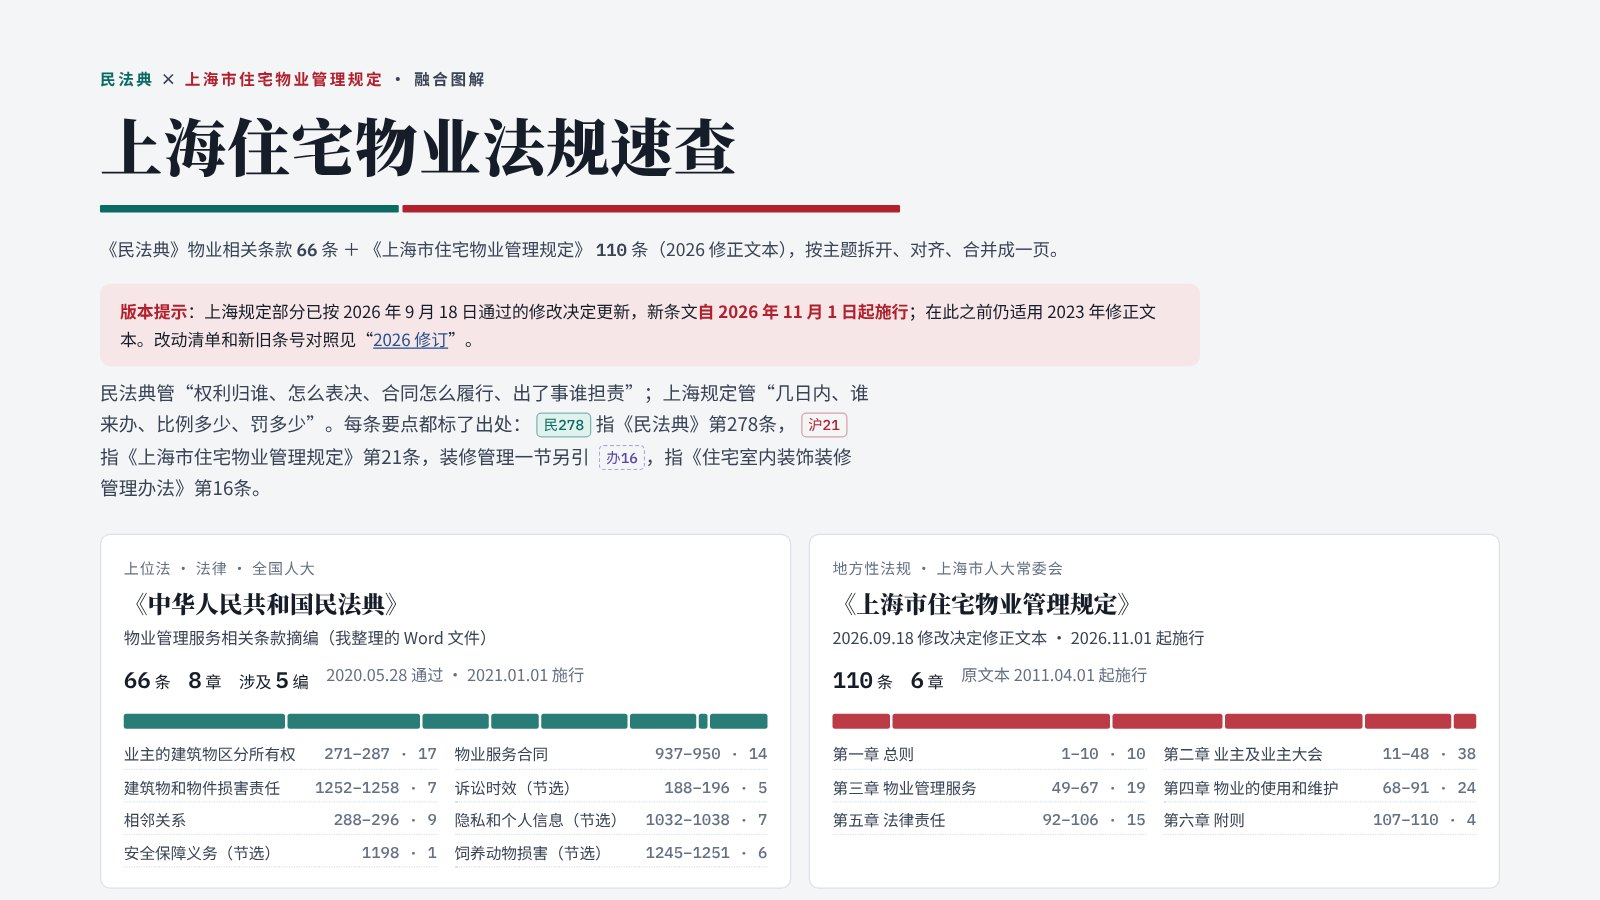
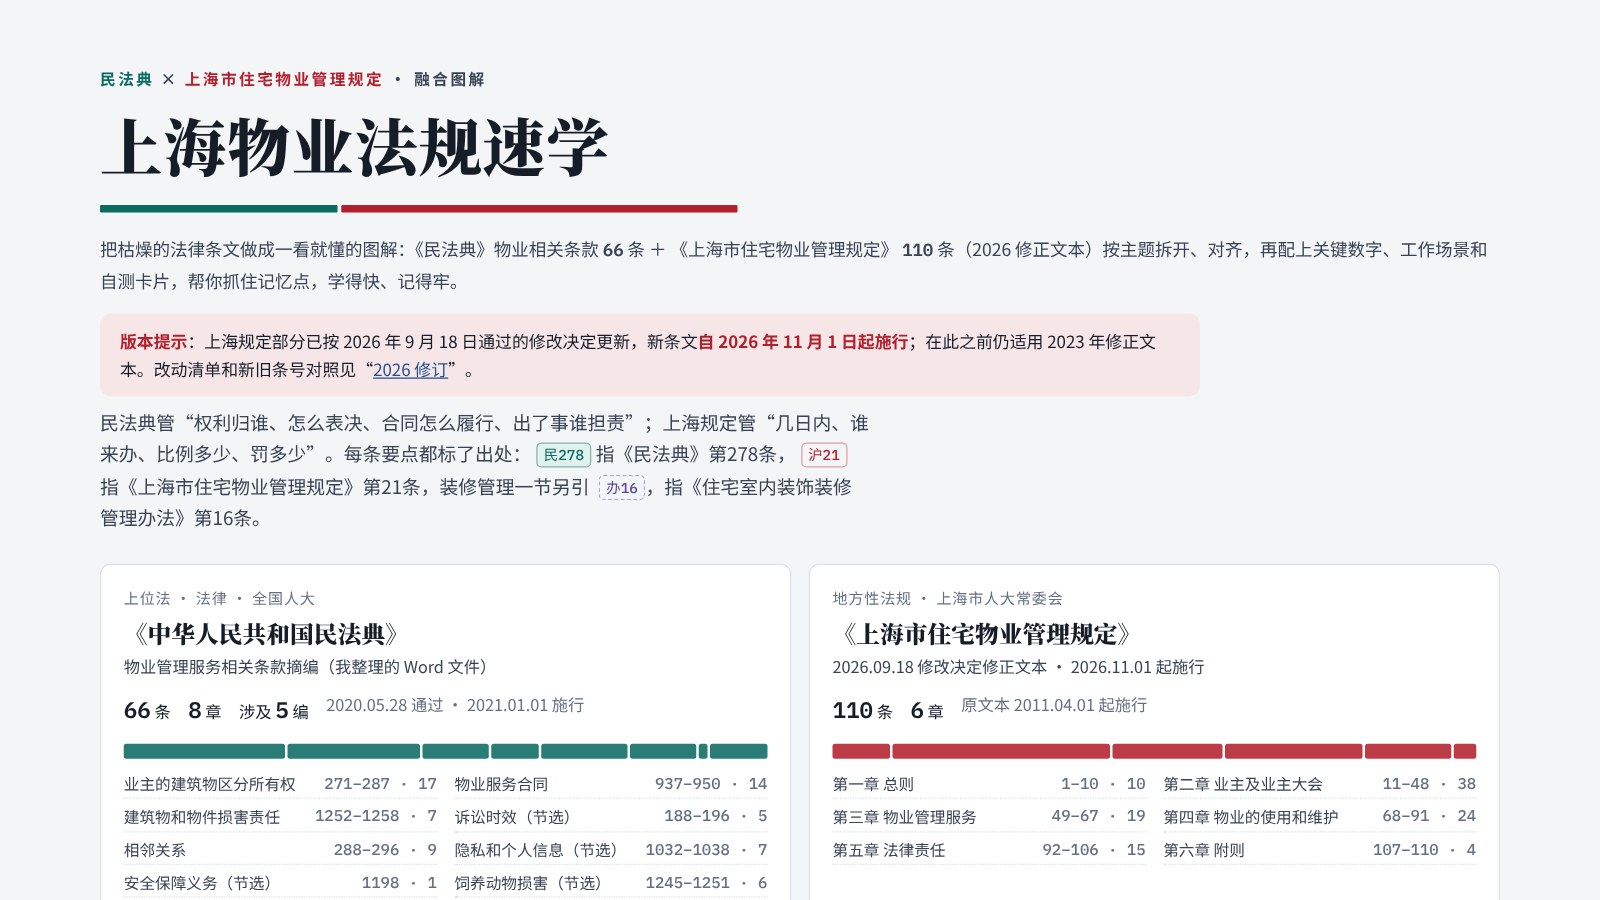
法规作品改名「上海物业法规速学」
- 主页卡片、作品页标题和简介改为强调：把枯燥的法律条文做成可视化图解，加深记忆、高效学习
- 主页卡片：「速查主题」改为「学习主题」，入口文字改为「开始学习」
- 重新截取封面图；标题字体子集补上「学」字
- 标题下的双色线随标题字号缩放，保持与标题的比例

Claude-Session: https://claude.ai/code/session_01QYuRXsHHjNDZUqRvLvTHEW

Changed region(s): [[0.0625, 0.6222, 0.9375, 0.9956], [0.0625, 0.1244, 0.9375, 0.5911]]

diff --git a/works/shanghai-property-law/index.html b/works/shanghai-property-law/index.html
@@ -3,7 +3,8 @@
 <head>
 <meta charset="utf-8">
 <meta name="viewport" content="width=device-width,initial-scale=1,viewport-fit=cover">
-<title>上海住宅物业法规速查</title>
+<title>上海物业法规速学</title>
+<meta name="description" content="把枯燥的物业法律条文做成一看就懂的图解：《民法典》物业相关条款与《上海市住宅物业管理规定》按主题对齐，配关键数字、工作场景和自测卡片，加深记忆、高效学习。">
 <link rel="preconnect" href="https://fonts.googleapis.com">
 <link rel="preconnect" href="https://fonts.gstatic.com" crossorigin>
 <link rel="stylesheet" href="https://fonts.googleapis.com/css2?family=Noto+Serif+SC:wght@600;900&family=Noto+Sans+SC:wght@400;500;700&family=IBM+Plex+Mono:wght@500;600&display=swap" media="print" onload="this.media='all'">
@@ -74,7 +75,7 @@ a{color:var(--blue)}
 .eyebrow{font-size:12.5px;letter-spacing:.16em;color:var(--ink-2);font-weight:700}
 .eyebrow .m{color:var(--civ)}.eyebrow .s{color:var(--seal)}
 .hero h1{font-size:clamp(30px,5.4vw,50px);font-weight:900;margin-top:10px;letter-spacing:.02em}
-.dualrule{display:flex;gap:3px;height:6px;margin-top:16px;max-width:640px}
+.dualrule{display:flex;gap:3px;height:6px;margin-top:16px;max-width:calc(clamp(30px,5.4vw,50px) * 10.2)}   /* 约为标题宽的 1.25 倍 */
 .dualrule span{display:block;border-radius:1px}
 .dualrule .m{background:var(--civ)}.dualrule .s{background:var(--seal)}
 .meta{margin-top:18px;color:var(--ink-2);font-size:14px}
@@ -248,9 +249,9 @@ ul.dot li::marker{color:var(--muted)}
 <body>
 <header class="wrap hero" id="top">
   <p class="eyebrow"><span class="m">民法典</span> × <span class="s">上海市住宅物业管理规定</span> · 融合图解</p>
-  <h1>上海住宅物业法规速查</h1>
+  <h1>上海物业法规速学</h1>
   <div class="dualrule" aria-hidden="true"><span class="m" style="flex:66"></span><span class="s" style="flex:110"></span></div>
-  <p class="meta">《民法典》物业相关条款 <b class="mono">66</b> 条 ＋ 《上海市住宅物业管理规定》 <b class="mono">110</b> 条（2026 修正文本），按主题拆开、对齐、合并成一页。</p>
+  <p class="meta">把枯燥的法律条文做成一看就懂的图解：《民法典》物业相关条款 <b class="mono">66</b> 条 ＋ 《上海市住宅物业管理规定》 <b class="mono">110</b> 条（2026 修正文本）按主题拆开、对齐，再配上关键数字、工作场景和自测卡片，帮你抓住记忆点，学得快、记得牢。</p>
   <div class="notice"><b>版本提示</b>：上海规定部分已按 2026 年 9 月 18 日通过的修改决定更新，新条文<b>自 2026 年 11 月 1 日起施行</b>；在此之前仍适用 2023 年修正文本。改动清单和新旧条号对照见“<a href="#rev">2026 修订</a>”。</div>
   <p class="lede">民法典管“权利归谁、怎么表决、合同怎么履行、出了事谁担责”；上海规定管“几日内、谁来办、比例多少、罚多少”。每条要点都标了出处：<span class="a m">民278</span> 指《民法典》第278条，<span class="a s">沪21</span> 指《上海市住宅物业管理规定》第21条，装修管理一节另引 <span class="a b">办16</span>，指《住宅室内装饰装修管理办法》第16条。</p>
 

diff --git a/index.html b/index.html
@@ -188,17 +188,17 @@ img{display:block;max-width:100%;height:auto}
       </article>
 
       <article class="work">
-        <div class="thumb"><img src="works/shanghai-property-law/cover.jpg" width="1600" height="900" alt="页面截图：上海住宅物业法规速查的标题和两部法的结构总览"></div>
+        <div class="thumb"><img src="works/shanghai-property-law/cover.jpg" width="1600" height="900" alt="页面截图：上海物业法规速学的标题和两部法的结构总览"></div>
         <div class="head">
-          <h3><a href="works/shanghai-property-law/">上海住宅物业<br>法规速查</a></h3>
-          <p class="desc">《民法典》物业相关条文与《上海市住宅物业管理规定》按主题对齐合并，每条要点标明出处，已按 2026 年修正更新。</p>
+          <h3><a href="works/shanghai-property-law/">上海物业<br>法规速学</a></h3>
+          <p class="desc">把枯燥的法律条文做成可视化图解：《民法典》与上海物业规定按主题对照，配关键数字和自测卡片，加深记忆、高效学习。</p>
         </div>
         <dl class="figs">
           <div><dt>法规条文</dt><dd>176<small>条</small></dd></div>
-          <div><dt>速查主题</dt><dd>28<small>个</small></dd></div>
+          <div><dt>学习主题</dt><dd>28<small>个</small></dd></div>
           <div><dt>最新修正</dt><dd>2026<small>版</small></dd></div>
         </dl>
-        <span class="go" aria-hidden="true">打开速查 →</span>
+        <span class="go" aria-hidden="true">开始学习 →</span>
       </article>
     </div>
   </section>

diff --git a/README.md b/README.md
@@ -10,14 +10,14 @@
 | --- | --- |
 | [建发央玺花园 · 前期物业服务标准](https://timchingx.github.io/works/yangxi-garden/) | 网页演示，19 页；169 项服务条款（基础标准 56 项、增项服务 113 项），附可搜索的条款库 |
 | [工程维修台账与数据仪表盘](https://timchingx.github.io/works/repair-ledger/) | Excel 工单系统：入户和公区台账、师傅调度看板、总仪表盘、单元查询、入户维修评价表；页面截图和示例文件均为脱敏数据 |
-| [上海住宅物业法规速查](https://timchingx.github.io/works/shanghai-property-law/) | 网页速查：《民法典》物业相关 66 条与《上海市住宅物业管理规定》110 条（2026 修正）按主题对齐合并，附 2026 修订对照、关键数字速查、客服场景速查和自测卡片 |
+| [上海物业法规速学](https://timchingx.github.io/works/shanghai-property-law/) | 可视化图解，把枯燥的法律条文变成好记的要点：《民法典》物业相关 66 条与《上海市住宅物业管理规定》110 条（2026 修正）按主题对齐合并，附 2026 修订对照、关键数字速查、客服场景速查和自测卡片 |
 
 ## 目录
 
 - `index.html`：作品集首页
 - `works/yangxi-garden/`：演示页面及封面图
 - `works/repair-ledger/`：维修台账作品页、截图和脱敏示例文件
-- `works/shanghai-property-law/`：法规速查页面及封面图
+- `works/shanghai-property-law/`：法规速学页面及封面图
 - `assets/`：首页用到的字体（思源宋体子集）
 
 ## 添加新作品
